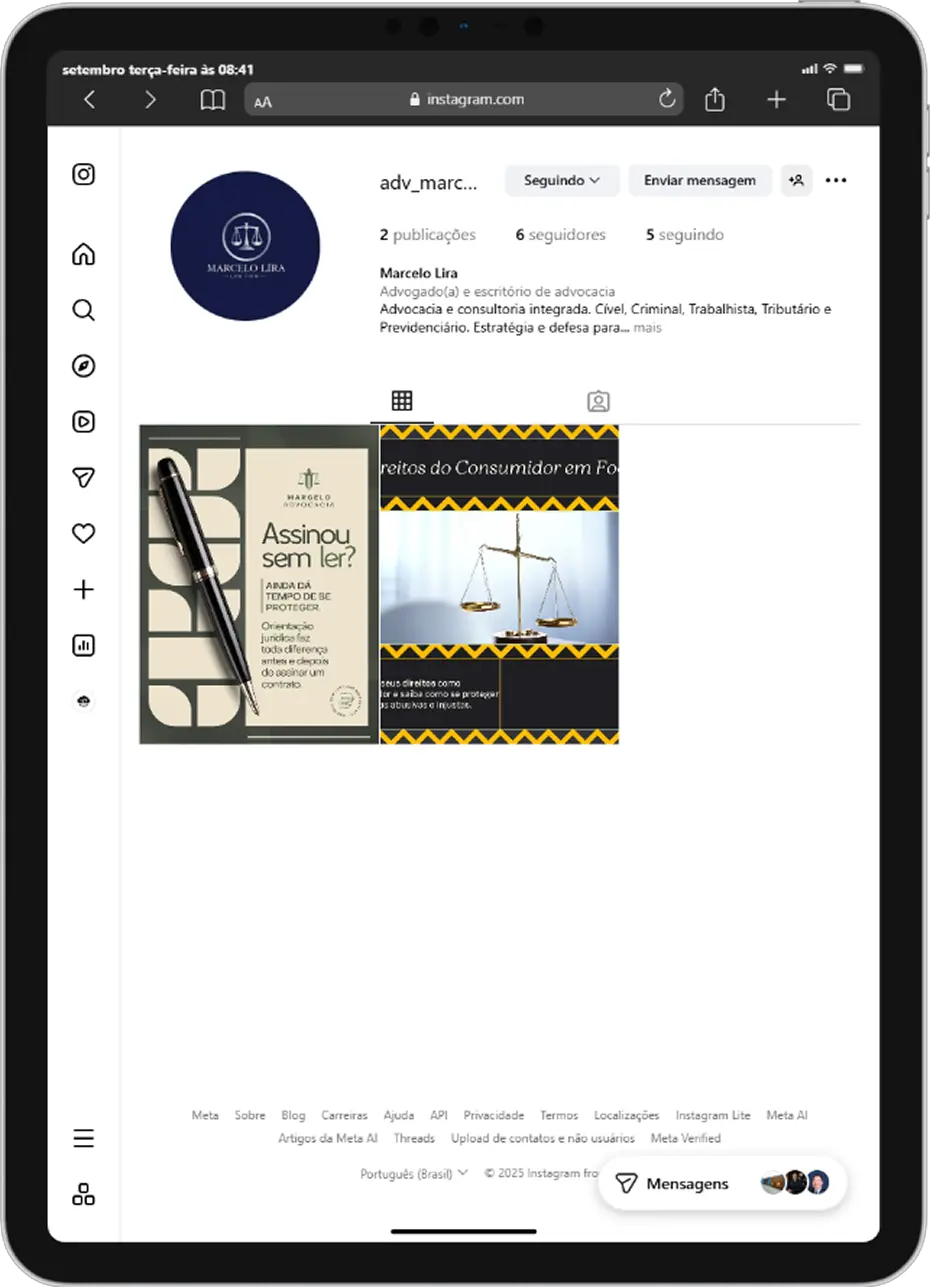
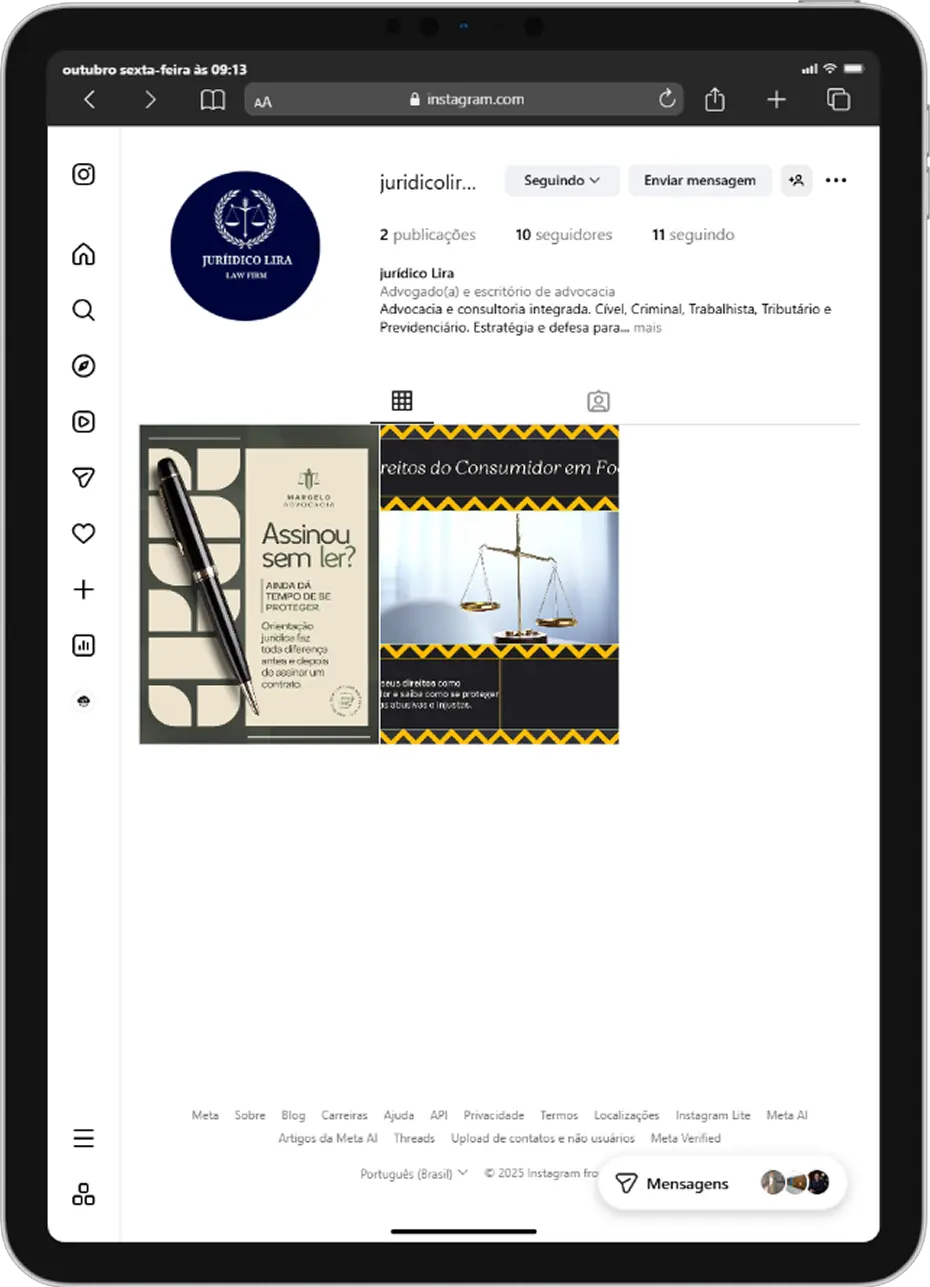
fix: Copy e imagens ajustadas

diff --git a/src/content/content.jsx b/src/content/content.jsx
@@ -107,7 +107,7 @@ export const infos = {
     </div>
   ),
   obs: <span className="italic">A Definir</span>,
-  instagramProfile: "adv_marcelolira", // Sem o @
+  instagramProfile: "juridicolira10", // Sem o @
   facebookProfile: "",
   linkeDinProfile: "",
   x: "",
@@ -483,11 +483,9 @@ const content = {
             stroke-width="2"
             stroke-linecap="round"
             stroke-linejoin="round"
-            class="lucide lucide-circle-dollar-sign-icon lucide-circle-dollar-sign"
+            class="lucide lucide-shield-icon lucide-shield"
           >
-            <circle cx="12" cy="12" r="10" />
-            <path d="M16 8h-6a2 2 0 1 0 0 4h4a2 2 0 1 1 0 4H8" />
-            <path d="M12 18V6" />
+            <path d="M20 13c0 5-3.5 7.5-7.66 8.95a1 1 0 0 1-.67-.01C7.5 20.5 4 18 4 13V6a1 1 0 0 1 1-1c2 0 4.5-1.2 6.24-2.72a1.17 1.17 0 0 1 1.52 0C14.51 3.81 17 5 19 5a1 1 0 0 1 1 1z" />
           </svg>
         ),
         buttonLabelModal: "Fale Conosco",
@@ -517,11 +515,11 @@ const content = {
             stroke-width="2"
             stroke-linecap="round"
             stroke-linejoin="round"
-            class="lucide lucide-circle-dollar-sign-icon lucide-circle-dollar-sign"
+            class="lucide lucide-clipboard-check-icon lucide-clipboard-check"
           >
-            <circle cx="12" cy="12" r="10" />
-            <path d="M16 8h-6a2 2 0 1 0 0 4h4a2 2 0 1 1 0 4H8" />
-            <path d="M12 18V6" />
+            <rect width="8" height="4" x="8" y="2" rx="1" ry="1" />
+            <path d="M16 4h2a2 2 0 0 1 2 2v14a2 2 0 0 1-2 2H6a2 2 0 0 1-2-2V6a2 2 0 0 1 2-2h2" />
+            <path d="m9 14 2 2 4-4" />
           </svg>
         ),
         buttonLabelModal: "Fale Conosco",
@@ -630,6 +628,40 @@ const content = {
         buttonLabel: "Saiba Mais",
       },
       card13: {
+        img: 3,
+        title: "A_Definir",
+        subtitle: "A_Definir",
+        description: (
+          <div>
+            A_Definir
+            <br />
+            <br />
+            A_Definir
+          </div>
+        ),
+        imgModal: imgFeaturesCardModal4,
+        icon: (
+          <svg
+            xmlns="http://www.w3.org/2000/svg"
+            width="24"
+            height="24"
+            viewBox="0 0 24 24"
+            fill="none"
+            stroke="currentColor"
+            stroke-width="2"
+            stroke-linecap="round"
+            stroke-linejoin="round"
+            class="lucide lucide-circle-dollar-sign-icon lucide-circle-dollar-sign"
+          >
+            <circle cx="12" cy="12" r="10" />
+            <path d="M16 8h-6a2 2 0 1 0 0 4h4a2 2 0 1 1 0 4H8" />
+            <path d="M12 18V6" />
+          </svg>
+        ),
+        buttonLabelModal: "Fale Conosco",
+        buttonLabel: "Saiba Mais",
+      },
+      card14: {
         img: 3,
         title: "A_Definir",
         subtitle: "A_Definir",

diff --git a/index.html b/index.html
@@ -20,12 +20,10 @@
     <link rel="preload" as="image" href="/assets/lawHeroMobile.webp" />
     <link rel="preload" as="image" href="/assets/lawHero.webp" />
 
-    <title>
-      Marcelo Lira Advocacia | Escritório de Advocacia em Manaus - AM
-    </title>
+    <title>Jurídico Lira | Escritório de Advocacia em Manaus - AM</title>
     <meta
       name="description"
-      content="Escritório Marcelo Lira Advocacia em Manaus - AM. Atuação ética, acessível e transparente em Direito Civil, Trabalhista, Previdenciário e outras áreas."
+      content="Escritório Jurídico Lira em Manaus - AM. Atuação ética, acessível e transparente em Direito Civil, Trabalhista, Previdenciário e outras áreas."
     />
     <meta
       name="keywords"
@@ -55,11 +53,11 @@ Advogado Marcelo Lira Manaus.
     <!-- Meta tags Open Graph (OG) para WhatsApp e Facebook -->
     <meta
       property="og:title"
-      content="Marcelo Lira Advocacia | Escritório de Advocacia em Manaus - AM"
+      content="Jurídico Lira | Escritório de Advocacia em Manaus - AM"
     />
     <meta
       property="og:description"
-      content="Escritório Marcelo Lira Advocacia em Manaus - AM. Atuação ética, acessível e transparente em Direito Civil, Trabalhista, Previdenciário e outras áreas."
+      content="Escritório Jurídico Lira em Manaus - AM. Atuação ética, acessível e transparente em Direito Civil, Trabalhista, Previdenciário e outras áreas."
     />
     <meta
       property="og:image"
@@ -77,11 +75,11 @@ Advogado Marcelo Lira Manaus.
     <meta name="twitter:card" content="summary_large_image" />
     <meta
       name="twitter:title"
-      content="Marcelo Lira Advocacia | Escritório de Advocacia em Manaus - AM"
+      content="Jurídico Lira | Escritório de Advocacia em Manaus - AM"
     />
     <meta
       name="twitter:description"
-      content="Escritório Marcelo Lira Advocacia em Manaus - AM. Atuação ética, acessível e transparente em Direito Civil, Trabalhista, Previdenciário e outras áreas."
+      content="Escritório Jurídico Lira em Manaus - AM. Atuação ética, acessível e transparente em Direito Civil, Trabalhista, Previdenciário e outras áreas."
     />
     <meta
       name="twitter:image"

diff --git a/src/components/sections/FeaturesIconWithModal.jsx b/src/components/sections/FeaturesIconWithModal.jsx
@@ -36,7 +36,7 @@ export default function FeaturesIconWithModal({ colorMode }) {
         subtitleColorSet={textClass}
       />
       <SectionWrapper>
-        <div className="w-full grid grid-cols-1 sm:grid-cols-2 lg:grid-cols-3 xl:grid-cols-4 gap-6">
+        <div className="w-full grid grid-cols-1 sm:grid-cols-2 lg:grid-cols-3 xl:grid-cols-5 gap-6 desktop1:">
           <MotionDivDownToUp>
             <IconFeatureCard
               icon={content.texts.features.card1.icon}
@@ -100,13 +100,7 @@ export default function FeaturesIconWithModal({ colorMode }) {
           <MotionDivDownToUp>
             <IconFeatureCard
               icon={content.texts.features.card7.icon}
-              title={
-                <span
-                  dangerouslySetInnerHTML={{
-                    __html: t("features.card7.title"),
-                  }}
-                />
-              }
+              title={t("features.card7.title")}
               paragraph={t("features.card7.subtitle")}
               className={`m-auto ${textClass}`}
               colorMode={colorMode}
@@ -114,6 +108,32 @@ export default function FeaturesIconWithModal({ colorMode }) {
           </MotionDivDownToUp>
 
           <MotionDivDownToUp>
+            <IconFeatureCard
+              icon={content.texts.features.card8.icon}
+              title={t("features.card8.title")}
+              paragraph={t("features.card8.subtitle")}
+              className={`m-auto ${textClass}`}
+              colorMode={colorMode}
+            />
+          </MotionDivDownToUp>
+
+          <MotionDivDownToUp>
+            <IconFeatureCard
+              icon={content.texts.features.card9.icon}
+              title={
+                <span
+                  dangerouslySetInnerHTML={{
+                    __html: t("features.card9.title"),
+                  }}
+                />
+              }
+              paragraph={t("features.card9.subtitle")}
+              className={`m-auto ${textClass}`}
+              colorMode={colorMode}
+            />
+          </MotionDivDownToUp>
+
+          <MotionDivDownToUp className="w-full flex justify-center">
             <IconFeatureCard
               icon={
                 <svg

diff --git a/src/components/interactives/AcordionModalServices.jsx b/src/components/interactives/AcordionModalServices.jsx
@@ -232,7 +232,37 @@ export default function AcordionModalServices() {
                 <button className="flex text-blue-600">
                   <span>{services.moreServices.arrowIcon}</span>
                   <span className="ml-2 text-left text-blue-600 text-paragraph3">
-                    {t("features.card14.title")}
+                    <span
+                      dangerouslySetInnerHTML={{
+                        __html: t("features.card14.title"),
+                      }}
+                    />
+                  </span>
+                </button>
+              </ModalComponent>
+
+              {/* Link 15 */}
+              <ModalComponent
+                header={t("features.card15.title")}
+                content={
+                  <ServiceDetailCard
+                    // img={content.texts.features.card15.imgModal}
+                    // subtitle={
+                    //   services.moreServices.demaisAreas.service4.cardSubtitle
+                    // }
+                    description={t("features.card15.subtitle")}
+                    // buttonLabel={content.texts.features.card15.buttonLabel}
+                    buttonIcon={services.moreServices.ctaButtons.icon}
+                    buttonLink={
+                      services.moreServices.demaisAreas.service4.buttonLink
+                    }
+                  />
+                }
+              >
+                <button className="flex text-blue-600">
+                  <span>{services.moreServices.arrowIcon}</span>
+                  <span className="ml-2 text-left text-blue-600 text-paragraph3">
+                    {t("features.card15.title")}
                   </span>
                 </button>
               </ModalComponent>

diff --git a/src/components/cards/IconFeatureCard.jsx b/src/components/cards/IconFeatureCard.jsx
@@ -19,7 +19,7 @@ export default function IconFeatureCard(props) {
 
   return (
     <div
-      className={`w-full tablet1:min-h-[300px] p-0 tablet1:w-[290px] mt-[36px] tablet1:mt-0 desktop1:w-[260px] desktop1:h-[350px] flex flex-col items-center desktop1:hover:scale-110 transition desktop1:p-0 ${className}`}
+      className={`w-full tablet1:min-h-[300px] p-0 tablet1:w-[290px] mt-[36px] tablet1:mt-0 desktop1:w-[230px] desktop1:h-[370px] flex flex-col items-center desktop1:hover:scale-110 transition desktop1:p-0 ${className}`}
     >
       <div
         className={`h-[64px] w-[64px] mb-[24px] rounded-md flex justify-center items-center text-white ${bgClass}`}
